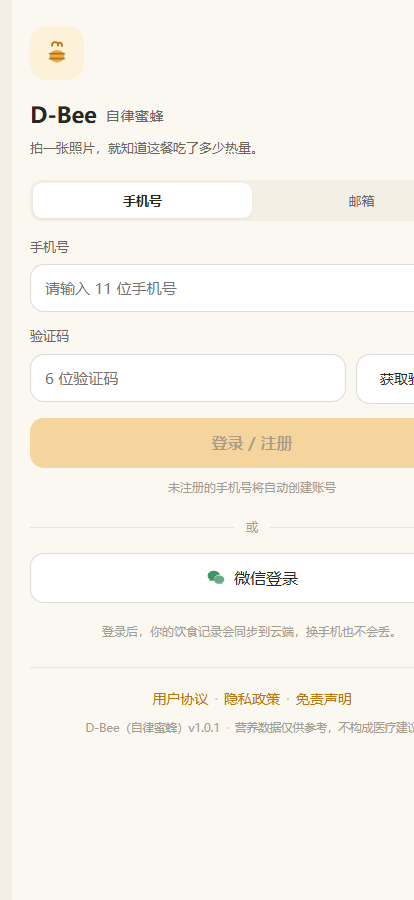
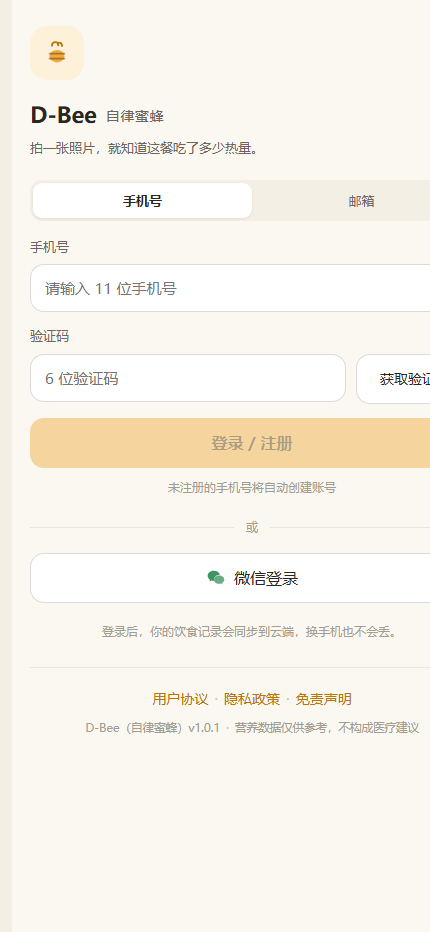
test: 阶段 1 Windows 侧模拟器验收通过 — 更正 SDK 误判，登录页原生渲染达标

diff --git a/.workbuddy/memory/2026-10-14.md b/.workbuddy/memory/2026-10-14.md
@@ -101,3 +101,30 @@
   - 无头 Edge 真实渲染回归：登录页、近 7 天报告、今日餐次全部正常
   - 证据截图已刷新：docs/verify/phase0-01-login.png、phase0-02-dashboard.png
 - 阶段 0 正式关闭。阶段 1（Capacitor 骨架）待启动，前置阻塞：git init（项目仍非 git 仓库）
+
+## 11:44 自动化复验（阶段 0 第三轮）
+
+- 阶段 0 保持完成态，本轮零代码改动，独立复验全部通过：
+  - typecheck 0 错；build 成功，产物与首轮逐字节一致（主包 index-x5qEteMv.js 401,901 B）
+  - 引用关系核验：业务代码全部走 lib 抽象层，无直连 localStorage/Capacitor/a.download
+  - Edge 无头渲染回归：登录页、mock 看板（近 7 天/连续打卡/今日餐次）要素齐全
+  - 新截图：docs/verify/phase0-01-login.png、phase0-02-dashboard.png
+- 环境更新：项目已是 git 仓库（main，最新提交 74ff3c2 = 阶段 1 Capacitor 骨架），工作区干净
+- 备忘：vite dev 冷启动约 12s，headless 截图前必须等服务就绪
+
+## 13:00 阶段 1 突破：Android 构建链路打通 + 模拟器验收通过
+
+- **重大更正**：「本机无 Android SDK」是误判。SDK 完整存在于 %LOCALAPPDATA%/Android/Sdk
+  （platforms 36/36.1/37、build-tools 35/36/37、adb、emulator+WHPX、API37 镜像、
+  AVD Medium_Phone_API_37.0），android/local.properties 已正确指向。
+  唯一缺的是 Android Studio GUI（命令行构建不需要）。
+- debug APK 已产出：android/app/build/outputs/apk/debug/app-debug.apk（5,049,029 B），
+  内嵌 web 资源与 dist 逐字节一致。
+- **模拟器验收通过**：AVD（Android 17）上安装启动，登录页在原生 WebView 完整渲染
+  （截图 docs/verify/phase1-01-native-login.png）。logcat 证实
+  `https://localhost/assets/index-x5qEteMv.js`（androidScheme=https 生效），
+  无 FATAL 崩溃、无 com.dbee.app ANR。ANR 全是系统应用（软渲染资源紧张）。
+- 阶段 1 剩余：验证码登录（需真人收码）→ 云端数据读取（成败判定点）→ 记一餐持久化。
+  操作指引已写入 docs/原生App-阶段1-Capacitor骨架.md §六。
+- adb 备忘：Git Bash 下 adb shell 路径参数要 MSYS_NO_PATHCONV=1（否则 /sdcard 被转成
+  Windows 路径）；adb daemon 每个新 Bash 会话重启，命令要尽量合并到单次调用里。

diff --git a/.workbuddy/memory/automations/8ce0cd70-684e-4222-8ea1-5d4ad0b546cd/memory.md b/.workbuddy/memory/automations/8ce0cd70-684e-4222-8ea1-5d4ad0b546cd/memory.md
@@ -31,6 +31,25 @@
   --screenshot/--dump-dom）成功。node 读 /tmp 会失败（Windows 原生 node 不识别 Git Bash 的 /tmp），改用 grep。
 - 阶段 0 已彻底关闭。下一步是阶段 1（Capacitor 骨架），隐性前置仍是 **git init**（项目仍非 git 仓库）。
 
+## 2026-10-14（第三次执行，自动化复验）
+
+- 阶段 0 持续保持完成态，本轮零源码改动，做独立复验。
+- 静态核验：5 个抽象层文件（platform/kv/capture/scan/share）+ cloudConfig 原生分支
+  （VITE_NATIVE_ENDPOINT → CLOUD_HOST 回退 + isUsableEndpoint 排除本地来源）全部在位；
+  业务代码引用关系确认：ProfileScreen→share、LogSheet/Scanner→capture、
+  Scanner→scan、main.tsx→platform；src 下无业务代码直用 localStorage /
+  window.Capacitor / a.download（仅 lib 抽象层内部与 ai.ts 压缩图片的 createObjectURL）。
+  kv.ts 暂无业务调用者（登录态由云 SDK 独占，属预期，为未来偏好存储预留）。
+- `npm run typecheck` 退出码 0；`npm run build` 成功，产物与两轮前逐字节一致：
+  主包 index-x5qEteMv.js 401,901 B / 分包 36,098 B / CSS 27,184 B / wasm 966,895 B。
+  注意：Vite 输出的「373.23 kB」是它自己的显示口径，实际字节数以 ls 为准（401,901 B）。
+- 运行时回归（本轮新截图）：登录页 phase0-01-login.png（30,686 B，要素齐全）、
+  mock 看板 phase0-02-dashboard.png（68,965 B，近 7 天/连续打卡/今日餐次/饮水/运动齐全）。
+- 环境更新：**项目已是 git 仓库**（main 分支 5+ 提交，最新 `74ff3c2` 阶段 1 Capacitor 骨架），
+  工作区干净。上轮记录的「非 git 仓库」阻塞项已解除。
+- 工具备忘：vite dev server 冷启动要 ~12s（Re-optimizing dependencies），截图前需等就绪；
+  4173 preview / 5199 dev 都要 --strictPort 且后台启动。
+
 ## 复用提示（下次执行时）
 
 - 项目**仍不是 git 仓库**，是阶段 1 的隐性前置阻塞项，每次执行都应检查并提醒。
